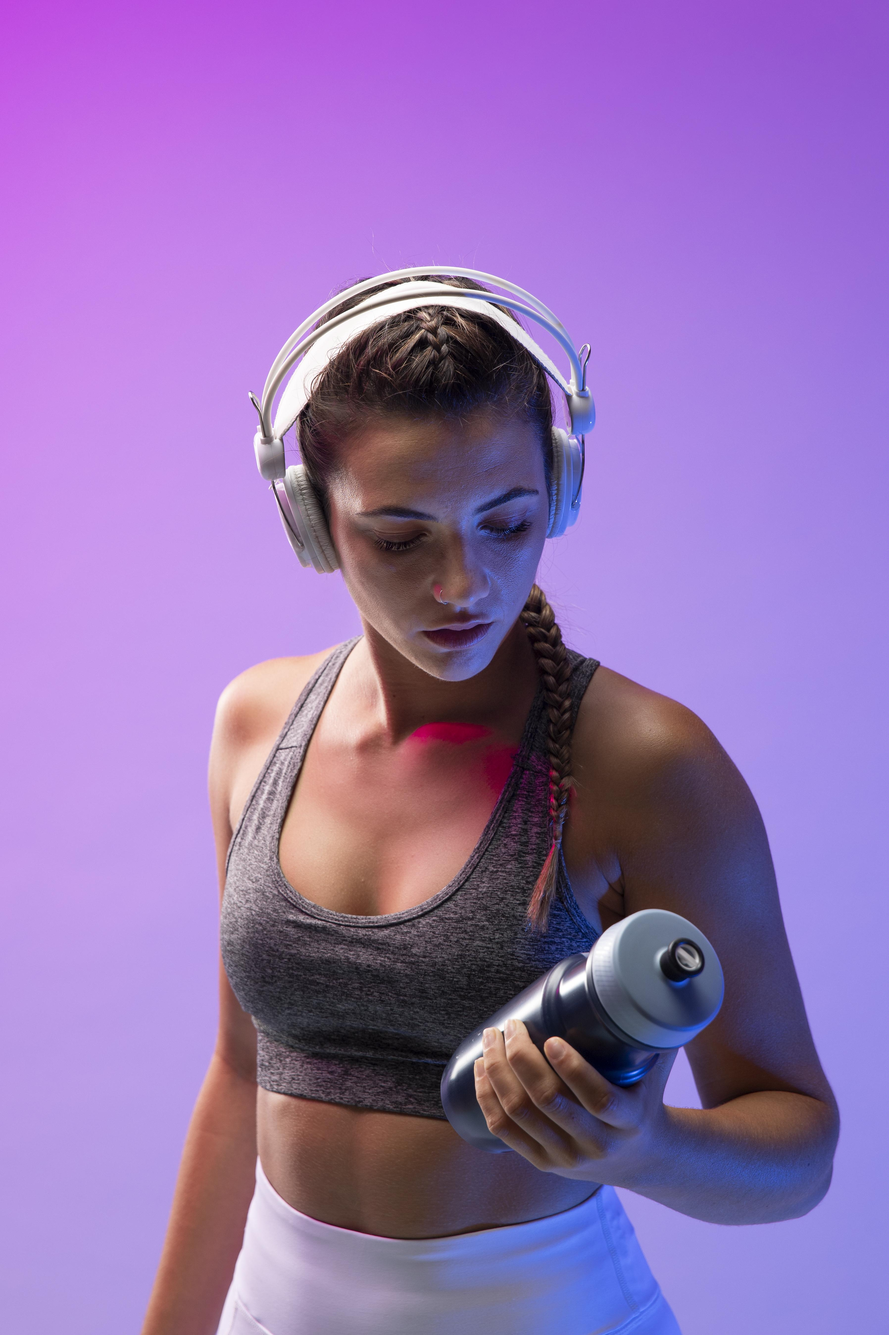
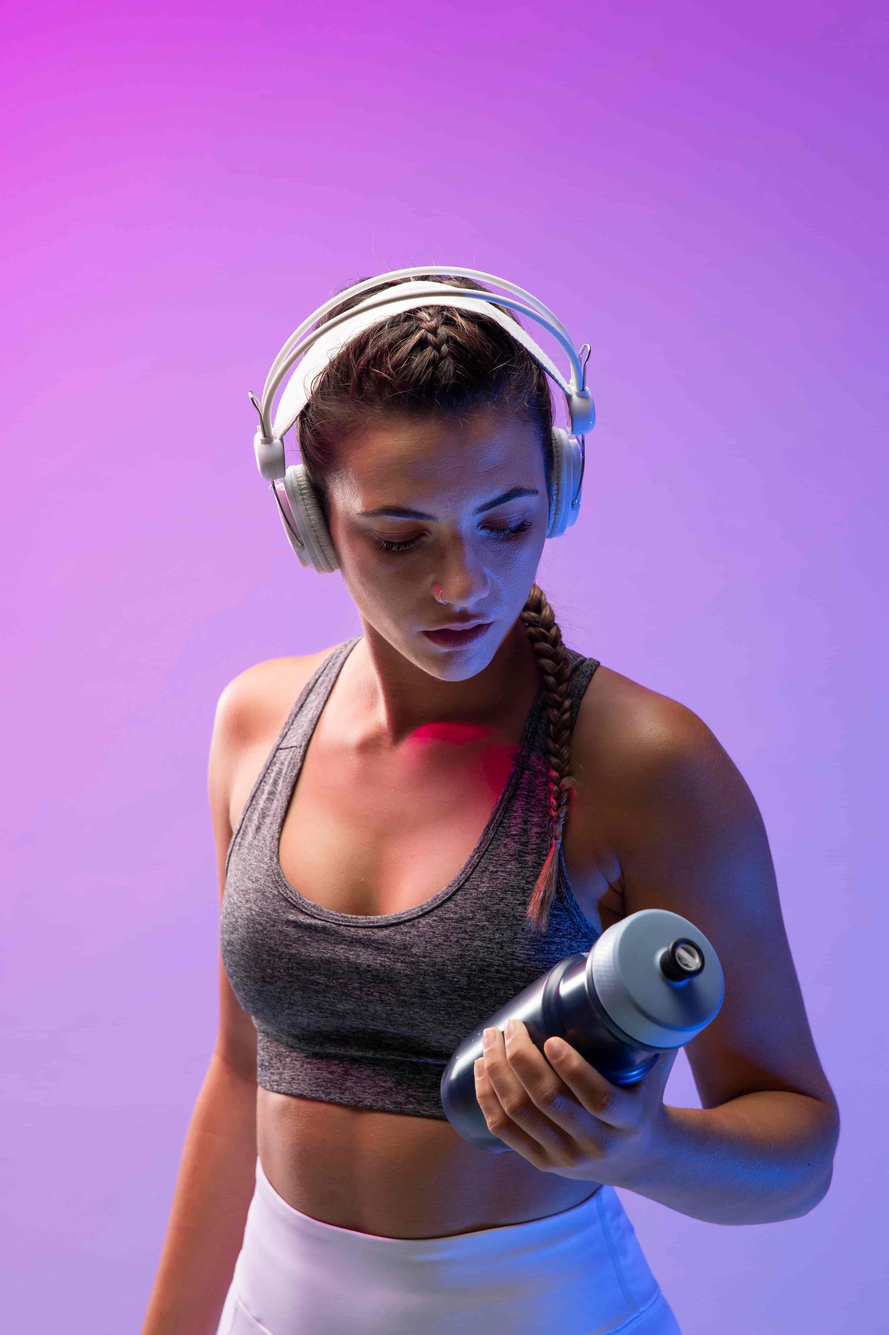
Otimização das imagens

diff --git a/src/components/PlansGym.vue b/src/components/PlansGym.vue
@@ -1,7 +1,9 @@
 <template>
   <div class="plans-gym">
     <h1>Choose Your Plan</h1>
-    <p class="description-plans">Flexible pricing options to fit your lifestyle and budget</p>
+    <p class="description-plans">
+      Flexible pricing options to fit your lifestyle and budget
+    </p>
 
     <div class="plan-gym-container">
       <div class="plan-gym-item">
@@ -182,16 +184,16 @@
   position: relative;
 }
 
-.degrade-item button{
-    background-color: white;
-    color: #667EEA;
+.degrade-item button {
+  background-color: white;
+  color: #667eea;
 }
 
 .most-popular {
   position: absolute;
   top: -4%;
   right: 30%;
-  background-color: #F093FB;
+  background-color: #f093fb;
   padding: 10px 20px;
   border-radius: 20px;
 }
@@ -206,22 +208,21 @@
   position: relative;
 }
 
-.top-item h2{
-    font-size: 40px;
-    color: #c39709b7;
-
+.top-item h2 {
+  font-size: 40px;
+  color: #ffc402f5;
 }
 
-.top-item h3{
-    font-size: 30px;
-
+.top-item h3 {
+  font-size: 30px;
 }
 
-.top-item p{
-    font-size: 16px;
+.top-item p {
+  font-size: 16px;
 }
 
-.top-item button{
-    background-color: #c39709b7;
+.top-item button {
+  background-color: #ffc402f5;
+  color: black;
 }
 </style>

diff --git a/src/App.vue b/src/App.vue
@@ -5,7 +5,8 @@
   <TrainingPrograms />
   <Trainers />
   <PlansGym />
-</template>
+  <Footer />
+  </template>
 
 <script setup>
 import Navbar from './components/Navbar.vue';
@@ -14,4 +15,5 @@ import ChooseGym from './components/ChooseGym.vue';
 import TrainingPrograms from './components/TrainingPrograms.vue';
 import Trainers from './components/Trainers.vue';
 import PlansGym from './components/PlansGym.vue';
+import Footer from './components/Footer.vue';
 </script>

diff --git a/src/components/MainPage.vue b/src/components/MainPage.vue
@@ -34,7 +34,7 @@
     </div>
 
     <div class="right-side">
-      <img src="../assets/mainImage.png" alt="gym" />
+      <img src="../assets/mainImage.jpg" alt="gym" />
     </div>
   </div>
 </template>

diff --git a/src/components/Footer.vue b/src/components/Footer.vue
@@ -1,0 +1,9 @@
+<template>
+    <div class="footer">
+        
+    </div>
+</template>
+
+<style scoped>
+
+</style>
